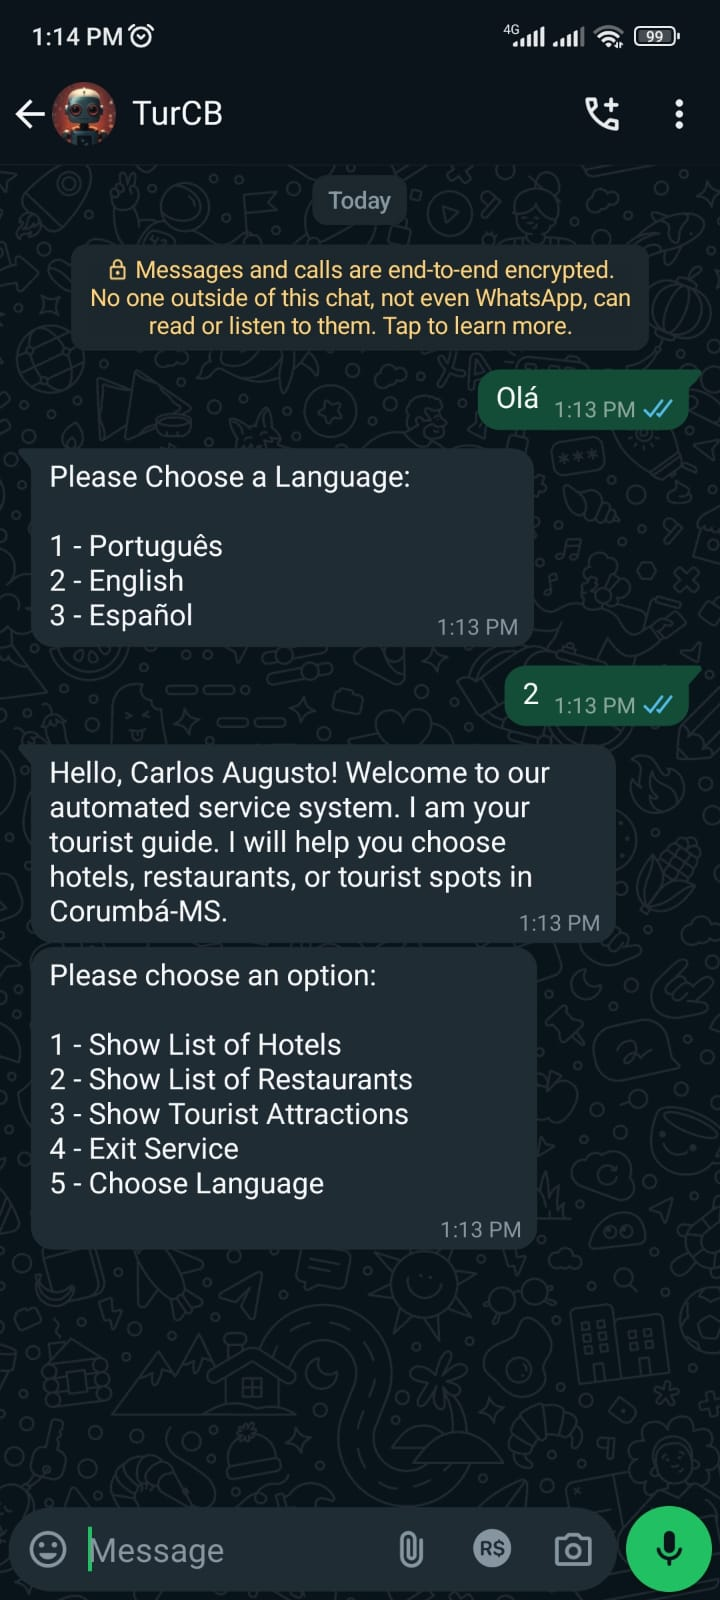
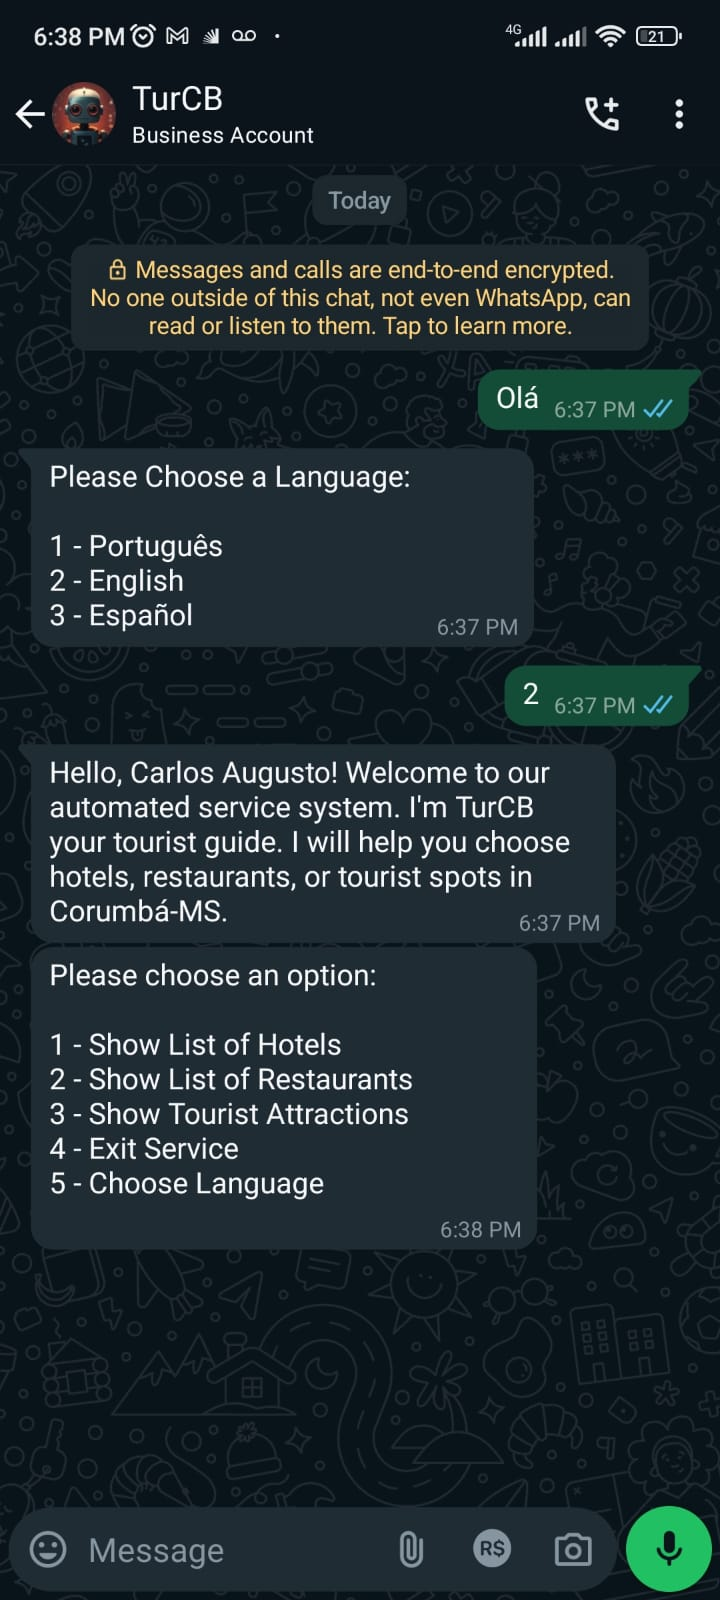
ajustes nome e foto

diff --git a/src/message.js b/src/message.js
@@ -362,13 +362,13 @@ const sendWelcomeMessage = async (client, phoneNumber, userState, userName) => {
   */
   switch (language) {
     case 'en':
-      welcomeMessage = `Hello, ${userName}! Welcome to our automated service system. I am your tourist guide. I will help you choose hotels, restaurants, or tourist spots in Corumbá-MS.`;
+      welcomeMessage = `Hello, ${userName}! Welcome to our automated service system. I'm TurCB your tourist guide. I will help you choose hotels, restaurants, or tourist spots in Corumbá-MS.`;
       break;
     case 'es':
-      welcomeMessage = `Hola, ${userName}! Bienvenido a nuestro sistema de servicio automatizado. Soy tu guía turístico. Te ayudaré a elegir hoteles, restaurantes o puntos turísticos en Corumbá-MS.`;
+      welcomeMessage = `Hola, ${userName}! Bienvenido a nuestro sistema de servicio automatizado. Soy TurCB tu guía turístico. Te ayudaré a elegir hoteles, restaurantes o puntos turísticos en Corumbá-MS.`;
       break;
     default:
-      welcomeMessage = `Olá, ${userName}! Seja bem-vindo ao nosso sistema de atendimento automatizado. Eu sou o seu guia turístico. Irei te auxiliar a escolher hotéis, restaurantes ou pontos turísticos da cidade de Corumbá-MS.`;
+      welcomeMessage = `Olá, ${userName}! Seja bem-vindo ao nosso sistema de atendimento automatizado. Eu sou o TurCB seu guia turístico. Irei te auxiliar a escolher hotéis, restaurantes ou pontos turísticos da cidade de Corumbá-MS.`;
       break;
   }
 
@@ -928,7 +928,7 @@ const showItemDetails = async (client, phoneNumber, selectedItem) => {
         /**
         * @property {string} - Send the choice of user and the menu to the user.
         */
-        await client.sendMessage(phoneNumber, media, { caption: `${i + 1}` });
+        await client.sendMessage(phoneNumber, media);
       } catch (error) {
         console.error('Error sending image:', error);
       }
